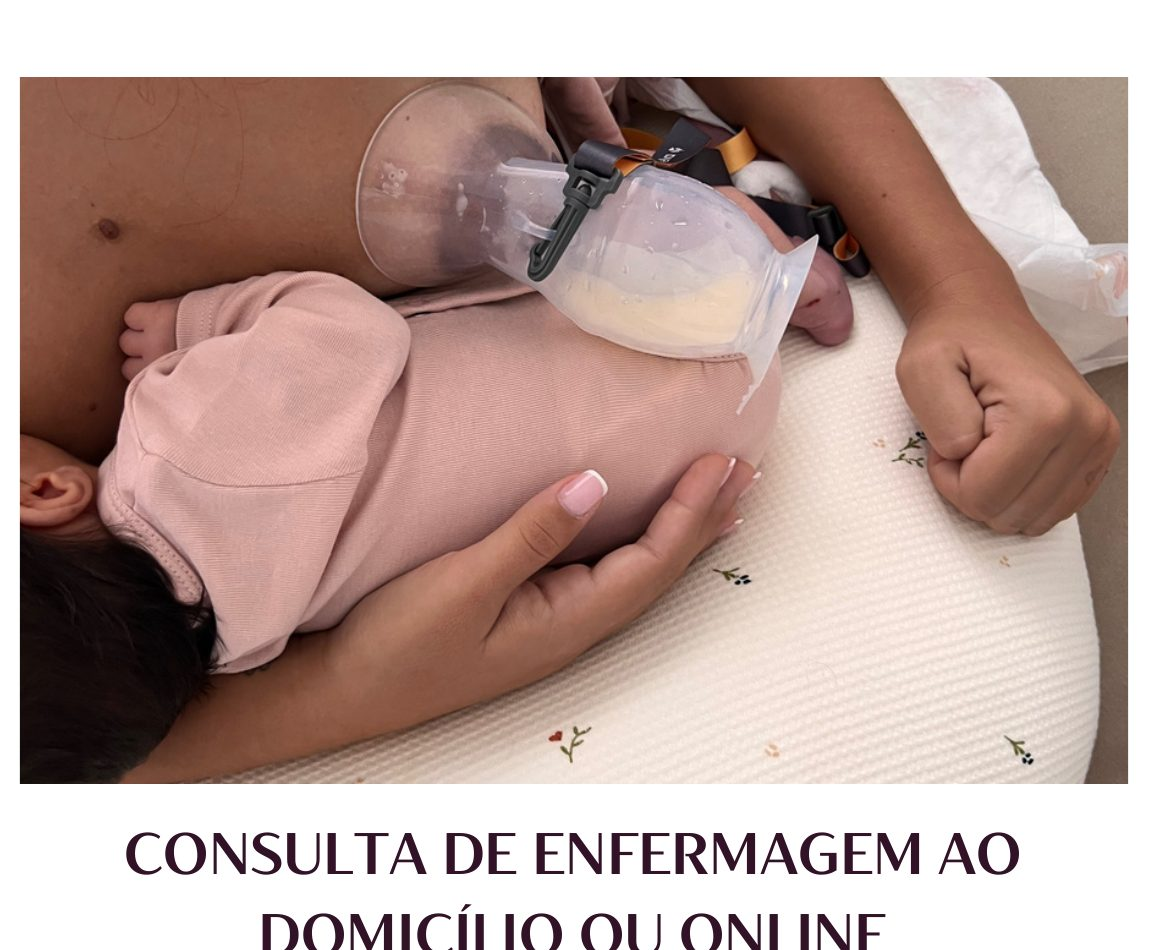
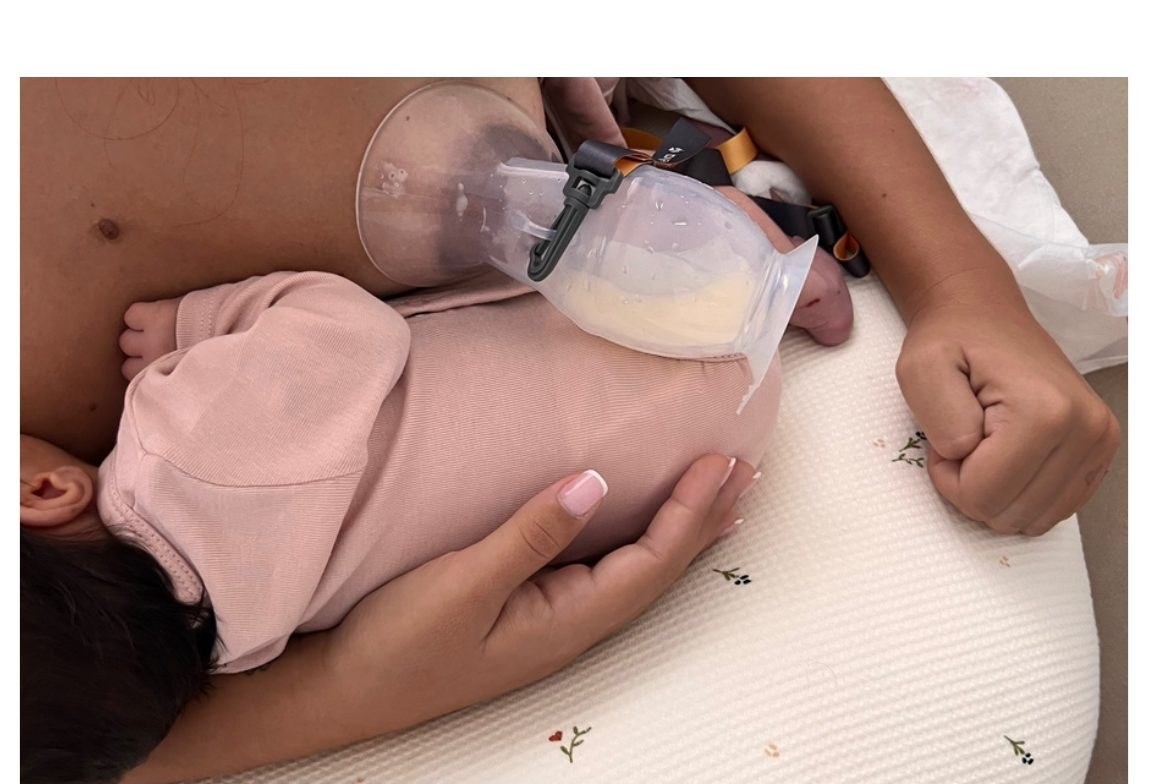
Fase 1: corrige foto do CTA, adiciona Galeria, Parceiros e consentimento RGPD
- Corrige o crop da foto de fundo da secção CTA (removia QR code residual e cortava as cabeças das fundadoras)
- Adiciona secção Galeria com 7 fotos (corrige 3 imagens que tinham texto de legenda cortado)
- Adiciona secção Parceiros (Continente, Philips Avent, RTP, TSF) com CTA de parcerias
- Adiciona checkbox de consentimento RGPD aos formulários de contacto e marcação
- Cria página de Política de Privacidade (privacidade.html)
- Atualiza navegação (desktop, mobile, footer) com os novos links

diff --git a/index.html b/index.html
@@ -274,6 +274,39 @@
   .field-row{display:grid; grid-template-columns:1fr 1fr; gap:14px;}
   .agenda-form .btn-dark{width:100%; justify-content:center; margin-top:6px;}
   .form-note{font-size:.78rem; color:var(--taupe); margin-top:12px; text-align:center;}
+  .consent-check{display:flex; align-items:flex-start; gap:9px; margin:4px 0 18px; cursor:pointer;}
+  .consent-check input{width:16px; height:16px; margin-top:3px; accent-color:var(--sage-dark); flex:0 0 auto;}
+  .consent-check span{font-size:.8rem; color:var(--taupe); line-height:1.4;}
+  .consent-check a{color:var(--terracotta); font-weight:600;}
+
+  /* ---------- PARCEIROS ---------- */
+  .partners-grid{display:grid; grid-template-columns:repeat(4,1fr); gap:20px; margin-top:10px;}
+  .partner-card{
+    background:var(--card); border-radius:18px; padding:26px 20px; text-align:center;
+    box-shadow:var(--shadow); display:flex; flex-direction:column; align-items:center; gap:10px;
+  }
+  .partner-card .partner-mark{
+    width:64px; height:64px; border-radius:50%; background:var(--sage-pale); color:var(--sage-dark);
+    display:flex; align-items:center; justify-content:center; font-family:"Fraunces"; font-weight:600; font-size:1.4rem;
+  }
+  .partner-card h4{font-size:1rem; margin:0;}
+  .partner-card p{font-size:.82rem; color:var(--taupe); margin:0;}
+  .partner-cta{
+    margin-top:36px; background:var(--cream-2); border-radius:20px; padding:32px 36px;
+    display:flex; align-items:center; justify-content:space-between; gap:24px; flex-wrap:wrap;
+  }
+  .partner-cta h3{font-size:1.25rem; margin-bottom:6px;}
+  .partner-cta p{color:var(--taupe); font-size:.92rem; margin:0; max-width:48ch;}
+
+  /* ---------- GALERIA ---------- */
+  .gallery-grid{
+    display:grid; grid-template-columns:repeat(4,1fr); grid-auto-rows:170px; gap:14px; margin-top:10px;
+  }
+  .gallery-grid a{border-radius:16px; overflow:hidden; display:block; position:relative;}
+  .gallery-grid img{width:100%; height:100%; object-fit:cover; transition:transform .5s ease;}
+  .gallery-grid a:hover img{transform:scale(1.07);}
+  .gallery-grid .tall{grid-row:span 2;}
+  .gallery-note{margin-top:18px; font-size:.85rem; color:var(--taupe); text-align:center;}
 
   /* ---------- FEEDBACKS ---------- */
   .feedback-grid{display:grid; grid-template-columns:repeat(3,1fr); gap:22px; margin-top:10px;}
@@ -357,6 +390,9 @@
     .field-row{grid-template-columns:1fr;}
     .footer-grid{grid-template-columns:1fr; gap:28px;}
     .agenda-copy, .agenda-form{padding:34px 26px;}
+    .partners-grid{grid-template-columns:repeat(2,1fr);}
+    .partner-cta{flex-direction:column; align-items:flex-start; text-align:left;}
+    .gallery-grid{grid-template-columns:repeat(3,1fr); grid-auto-rows:130px;}
   }
   @media (max-width:600px){
     section{padding-block:60px;}
@@ -365,6 +401,8 @@
     .quem-photos{grid-template-columns:1fr;}
     .quem-photos img{aspect-ratio:16/10;}
     .quem-photos .p2{margin-top:0;}
+    .partners-grid{grid-template-columns:repeat(2,1fr);}
+    .gallery-grid{grid-template-columns:repeat(2,1fr); grid-auto-rows:150px;}
   }
 
   /* mobile nav panel */
@@ -392,7 +430,9 @@
       <li><a href="#quem-somos">Quem somos</a></li>
       <li><a href="#missao">Missão</a></li>
       <li><a href="#percurso">Percurso</a></li>
+      <li><a href="#parceiros">Parceiros</a></li>
       <li><a href="#servicos">Serviços</a></li>
+      <li><a href="#galeria">Galeria</a></li>
       <li><a href="#feedbacks">Feedbacks</a></li>
       <li><a href="#contacto">Contacto</a></li>
     </ul>
@@ -411,7 +451,9 @@
   <a href="#quem-somos">Quem somos</a>
   <a href="#missao">Missão</a>
   <a href="#percurso">Percurso</a>
+  <a href="#parceiros">Parceiros</a>
   <a href="#servicos">Serviços</a>
+  <a href="#galeria">Galeria</a>
   <a href="#feedbacks">Feedbacks</a>
   <a href="#contacto">Contacto</a>
 </nav>
@@ -544,6 +586,46 @@
     </div>
   </section>
 
+  <!-- PARCEIROS -->
+  <section id="parceiros" class="alt">
+    <div class="wrap">
+      <div class="section-head">
+        <div class="eyebrow">Marcas &amp; parceiros</div>
+        <h2>Com quem já caminhámos.</h2>
+        <p>Marcas e instituições que se juntaram a nós em workshops, conteúdos e iniciativas de saúde infantil ao longo destes anos.</p>
+      </div>
+      <div class="partners-grid">
+        <div class="partner-card">
+          <div class="partner-mark">C</div>
+          <h4>Continente</h4>
+          <p>Workshops &amp; newsletter</p>
+        </div>
+        <div class="partner-card">
+          <div class="partner-mark">PA</div>
+          <h4>Philips Avent</h4>
+          <p>Workshops de parentalidade</p>
+        </div>
+        <div class="partner-card">
+          <div class="partner-mark">RTP</div>
+          <h4>RTP — A Nossa Tarde</h4>
+          <p>Participação em programa</p>
+        </div>
+        <div class="partner-card">
+          <div class="partner-mark">TSF</div>
+          <h4>A Vida Passa a Comer</h4>
+          <p>Podcast, TSF</p>
+        </div>
+      </div>
+      <div class="partner-cta">
+        <div>
+          <h3>É uma marca e quer colaborar com a Grow Up Baby?</h3>
+          <p>Escrevam-nos a contar a ideia — workshops, conteúdos ou outras iniciativas para famílias.</p>
+        </div>
+        <a class="btn btn-primary" href="mailto:parcerias@growupbaby.pt?subject=Proposta%20de%20parceria">Falar sobre uma parceria</a>
+      </div>
+    </div>
+  </section>
+
   <!-- SERVICOS -->
   <section id="servicos" class="alt">
     <div class="wrap">
@@ -643,11 +725,36 @@
               <label for="bk-msg">Mensagem</label>
               <textarea id="bk-msg" name="Mensagem" rows="3" placeholder="Contem-nos um pouco sobre o que precisam..."></textarea>
             </div>
+            <label class="consent-check">
+              <input type="checkbox" name="Consentimento" value="Sim" required>
+              <span>Autorizo o tratamento dos meus dados para responderem ao meu pedido, nos termos da <a href="privacidade.html" target="_blank" rel="noopener">Política de Privacidade</a>.</span>
+            </label>
             <button type="submit" class="btn btn-dark">Enviar pedido de marcação</button>
             <p class="form-note">Ao enviar, abre-se o vosso programa de email com o pedido já preenchido.</p>
           </form>
         </div>
       </div>
+    </div>
+  </section>
+
+  <!-- GALERIA -->
+  <section id="galeria">
+    <div class="wrap">
+      <div class="section-head center">
+        <div class="eyebrow">Galeria</div>
+        <h2>Momentos das nossas consultas, cursos e workshops.</h2>
+        <p>Um pouco do que é acompanhar famílias de perto — em casa, em consulta e nas formações.</p>
+      </div>
+      <div class="gallery-grid">
+        <a href="assets/serv_curso.jpg" target="_blank" rel="noopener" class="tall"><img src="assets/serv_curso.jpg" alt="Curso Cuidados ao Bebé"></a>
+        <a href="assets/serv_consulta.jpg" target="_blank" rel="noopener"><img src="assets/serv_consulta.jpg" alt="Consulta de Enfermagem"></a>
+        <a href="assets/curso_detail2.jpg" target="_blank" rel="noopener"><img src="assets/curso_detail2.jpg" alt="Curso Cuidados ao Bebé — treino prático"></a>
+        <a href="assets/serv_workshop.jpg" target="_blank" rel="noopener" class="tall"><img src="assets/serv_workshop.jpg" alt="Workshop Introdução Alimentar"></a>
+        <a href="assets/consulta_detail2.jpg" target="_blank" rel="noopener"><img src="assets/consulta_detail2.jpg" alt="Consulta de Enfermagem ao domicílio"></a>
+        <a href="assets/walim_detail2.jpg" target="_blank" rel="noopener"><img src="assets/walim_detail2.jpg" alt="Workshop Introdução Alimentar — detalhe"></a>
+        <a href="assets/hero_small_filipa.jpg" target="_blank" rel="noopener"><img src="assets/hero_small_filipa.jpg" alt="Enf.ª Filipa Santos"></a>
+      </div>
+      <p class="gallery-note">Mais fotografias em breve — sigam-nos no <a href="https://www.instagram.com/growupbaby_" target="_blank" rel="noopener" style="color:var(--terracotta); font-weight:700;">Instagram @growupbaby_</a>.</p>
     </div>
   </section>
 
@@ -739,6 +846,10 @@
             <label for="c-msg">Mensagem</label>
             <textarea id="c-msg" name="Mensagem" rows="3" placeholder="Como podemos ajudar?" required></textarea>
           </div>
+          <label class="consent-check">
+            <input type="checkbox" name="Consentimento" value="Sim" required>
+            <span>Autorizo o tratamento dos meus dados para responderem ao meu pedido, nos termos da <a href="privacidade.html" target="_blank" rel="noopener">Política de Privacidade</a>.</span>
+          </label>
           <button type="submit" class="btn btn-primary">Enviar mensagem</button>
         </form>
         <div class="contact-links">
@@ -772,7 +883,9 @@
           <li><a href="#quem-somos">Quem somos</a></li>
           <li><a href="#missao">Missão</a></li>
           <li><a href="#percurso">Percurso</a></li>
+          <li><a href="#parceiros">Parceiros</a></li>
           <li><a href="#servicos">Serviços</a></li>
+          <li><a href="#galeria">Galeria</a></li>
           <li><a href="#feedbacks">Feedbacks</a></li>
         </ul>
       </div>
@@ -787,7 +900,10 @@
     </div>
     <div class="footer-bottom">
       <span>© <span id="year"></span> Grow Up Baby. Todos os direitos reservados.</span>
-      <span>Enf.ª Filipa Santos &amp; Enf.ª Telma Maravilha</span>
+      <span style="display:flex; gap:18px; align-items:center;">
+        <a href="privacidade.html" style="color:inherit;">Política de Privacidade</a>
+        <span>Enf.ª Filipa Santos &amp; Enf.ª Telma Maravilha</span>
+      </span>
     </div>
   </div>
 </footer>

diff --git a/privacidade.html b/privacidade.html
@@ -1,0 +1,90 @@
+<!doctype html>
+<html lang="pt">
+<head>
+<meta charset="UTF-8">
+<meta name="viewport" content="width=device-width, initial-scale=1">
+<title>Política de Privacidade | Grow Up Baby</title>
+<meta name="description" content="Política de Privacidade da Grow Up Baby — como tratamos os dados pessoais que nos confiam através do site.">
+<meta name="robots" content="noindex">
+<link rel="icon" href="assets/logo_badge_white.jpg">
+<link rel="preconnect" href="https://fonts.googleapis.com">
+<link rel="preconnect" href="https://fonts.gstatic.com" crossorigin>
+<link href="https://fonts.googleapis.com/css2?family=Fraunces:ital,opsz,wght@0,9..144,400;0,9..144,600;1,9..144,500&family=Libre+Franklin:wght@300;400;500;600;700&display=swap" rel="stylesheet">
+<style>
+  :root{
+    --cream:#faf7f1; --cream-2:#f1ede3; --sage-pale:#e2e6da; --sage:#859479; --sage-dark:#5f6e55;
+    --taupe:#6f645a; --plum:#3f2733; --terracotta:#a8663b; --ink:#332c26; --line:rgba(63,39,51,.12);
+  }
+  *{box-sizing:border-box;}
+  body{margin:0; background:var(--cream); color:var(--ink); font-family:"Libre Franklin",sans-serif; line-height:1.6;}
+  h1,h2{font-family:"Fraunces",Georgia,serif; color:var(--plum);}
+  header{background:#fff; border-bottom:1px solid var(--line); padding:18px 24px;}
+  header a{display:inline-flex; align-items:center;}
+  header img{height:46px; border-radius:8px;}
+  .wrap{max-width:760px; margin:0 auto; padding:56px 24px 80px;}
+  .eyebrow{text-transform:uppercase; letter-spacing:.1em; font-size:.78rem; color:var(--sage-dark); font-weight:700;}
+  h1{font-size:2.1rem; margin:8px 0 6px;}
+  .updated{color:var(--taupe); font-size:.88rem; margin-bottom:36px;}
+  h2{font-size:1.25rem; margin-top:38px; margin-bottom:10px;}
+  p, li{color:var(--ink); font-size:.98rem;}
+  ul{padding-left:22px;}
+  a{color:var(--terracotta);}
+  .back{display:inline-block; margin-top:46px; font-weight:700; color:var(--sage-dark); text-decoration:none;}
+  footer{text-align:center; padding:28px; font-size:.8rem; color:#9a8f86;}
+</style>
+</head>
+<body>
+
+<header>
+  <a href="index.html"><img src="assets/logo_script.jpg" alt="Grow Up Baby"></a>
+</header>
+
+<div class="wrap">
+  <div class="eyebrow">Grow Up Baby</div>
+  <h1>Política de Privacidade</h1>
+  <p class="updated">Última atualização: setembro de 2026</p>
+
+  <p>A Grow Up Baby (Enf.ª Filipa Santos e Enf.ª Telma Maravilha) respeita a privacidade de quem visita este site e preenche os nossos formulários. Este documento explica que dados recolhemos, para quê, e quais os vossos direitos.</p>
+
+  <h2>1. Que dados recolhemos</h2>
+  <p>Quando preenchem o formulário de contacto ou de marcação, recolhemos apenas os dados que nos fornecem diretamente:</p>
+  <ul>
+    <li>Nome</li>
+    <li>Email</li>
+    <li>Telefone (quando indicado)</li>
+    <li>Serviço pretendido e mensagem</li>
+  </ul>
+  <p>Não recolhemos dados de saúde através do site — qualquer informação clínica é tratada apenas em contexto de consulta, seguindo as regras profissionais de enfermagem.</p>
+
+  <h2>2. Para que usamos os vossos dados</h2>
+  <p>Usamos os dados exclusivamente para responder ao vosso pedido de contacto ou marcação — combinar datas, esclarecer dúvidas e prestar os serviços solicitados. Não usamos os vossos dados para fins de marketing sem consentimento explícito, nem os vendemos ou cedemos a terceiros.</p>
+
+  <h2>3. Base legal</h2>
+  <p>O tratamento assenta no vosso consentimento, dado ao assinalar a casa de confirmação no formulário, e no interesse legítimo de responder a pedidos de contacto que nos dirigem voluntariamente.</p>
+
+  <h2>4. Quanto tempo guardamos os dados</h2>
+  <p>Guardamos os dados de contacto apenas durante o tempo necessário para responder ao pedido e, caso se torne cliente, durante a relação de prestação de serviços e o período de conservação legalmente exigido.</p>
+
+  <h2>5. Os vossos direitos</h2>
+  <p>Nos termos do RGPD, podem a qualquer momento:</p>
+  <ul>
+    <li>Aceder aos dados que temos sobre vós</li>
+    <li>Pedir a retificação de dados incorretos</li>
+    <li>Pedir o apagamento dos vossos dados</li>
+    <li>Retirar o consentimento dado</li>
+  </ul>
+  <p>Para exercer qualquer um destes direitos, escrevam para <a href="mailto:geral@growupbaby.pt">geral@growupbaby.pt</a>.</p>
+
+  <h2>6. Partilha com terceiros</h2>
+  <p>Não partilhamos os vossos dados com terceiros, exceto quando exigido por lei ou com prestadores de serviços técnicos estritamente necessários ao funcionamento do site (por exemplo, o serviço de alojamento ou de envio de email), sempre sob obrigações de confidencialidade.</p>
+
+  <h2>7. Contacto</h2>
+  <p>Para qualquer questão sobre esta política ou sobre o tratamento dos vossos dados, contactem-nos através de <a href="mailto:geral@growupbaby.pt">geral@growupbaby.pt</a>.</p>
+
+  <a class="back" href="index.html">← Voltar ao site</a>
+</div>
+
+<footer>© <span id="year"></span> Grow Up Baby. Todos os direitos reservados.</footer>
+<script>document.getElementById('year').textContent = new Date().getFullYear();</script>
+</body>
+</html>
